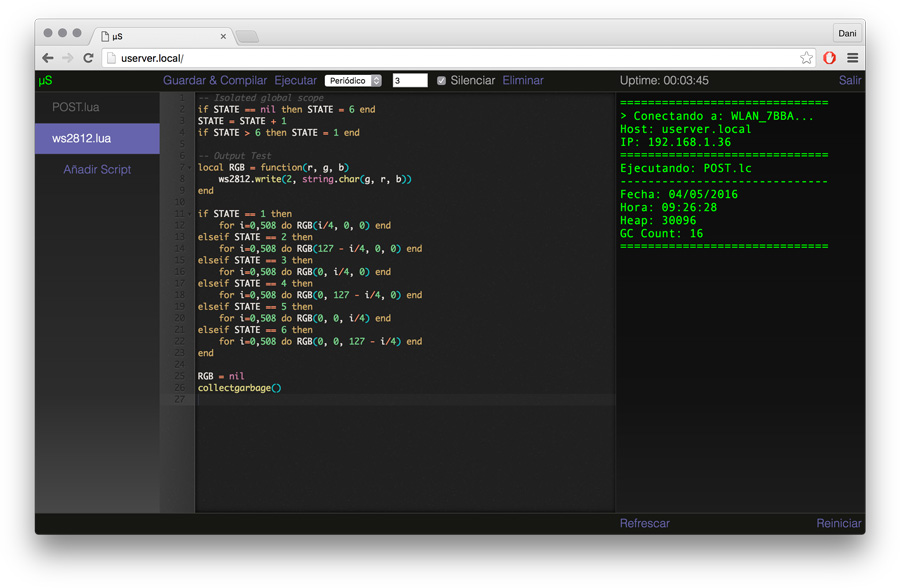
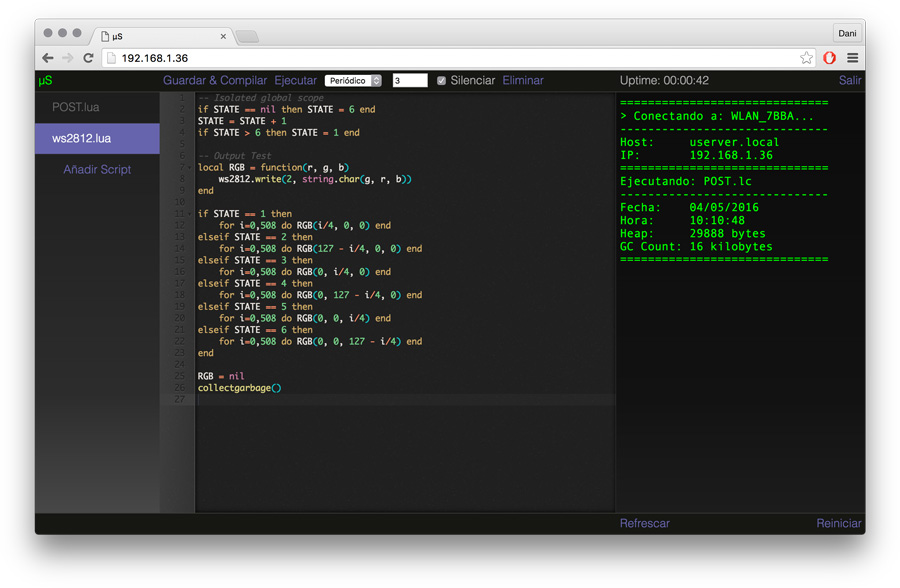
Konsole formatting

Changed region(s): [[0.6844, 0.2143, 0.9333, 0.4592], [0.1244, 0.0918, 0.2178, 0.1224]]

diff --git a/screen.sass b/screen.sass
@@ -192,3 +192,5 @@ html.main
 				color: #0f0
 				font-family: "Andale Mono", "Courier", monospace
 				overflow-y: auto
+				> div
+					white-space: pre-wrap
